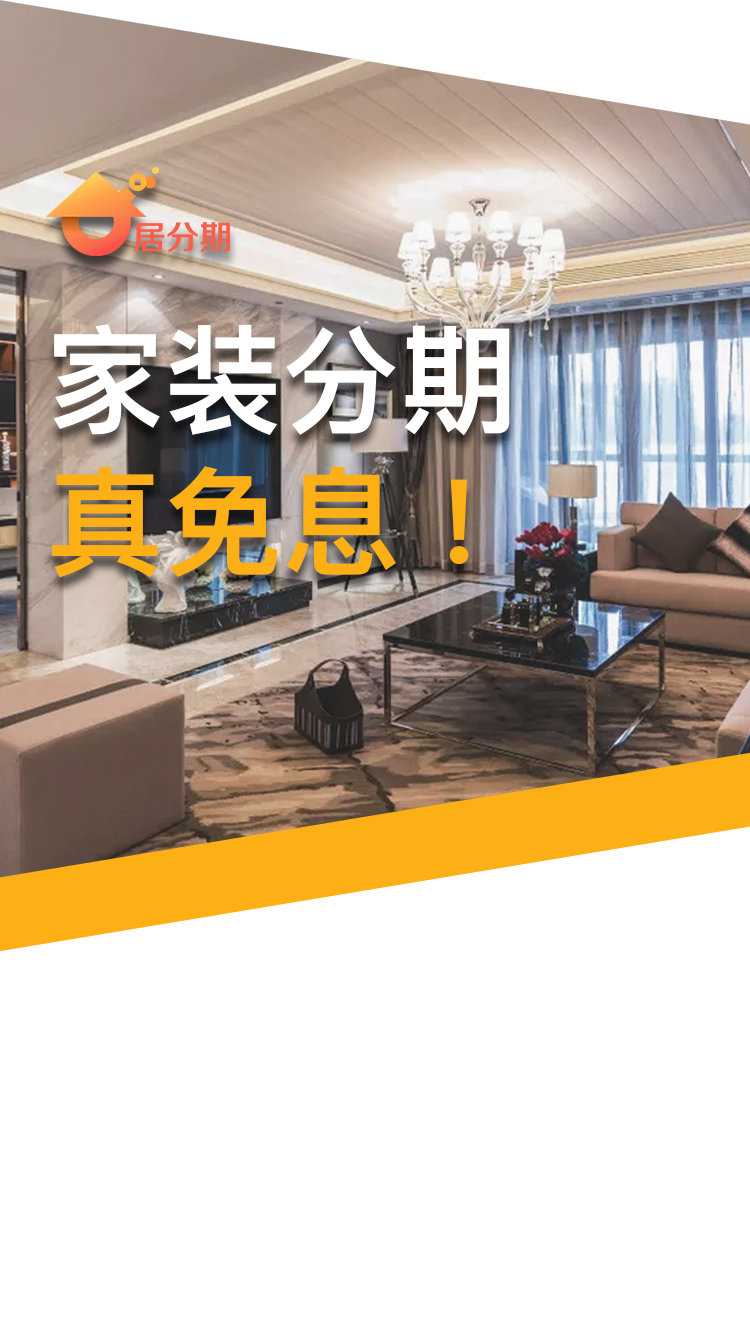
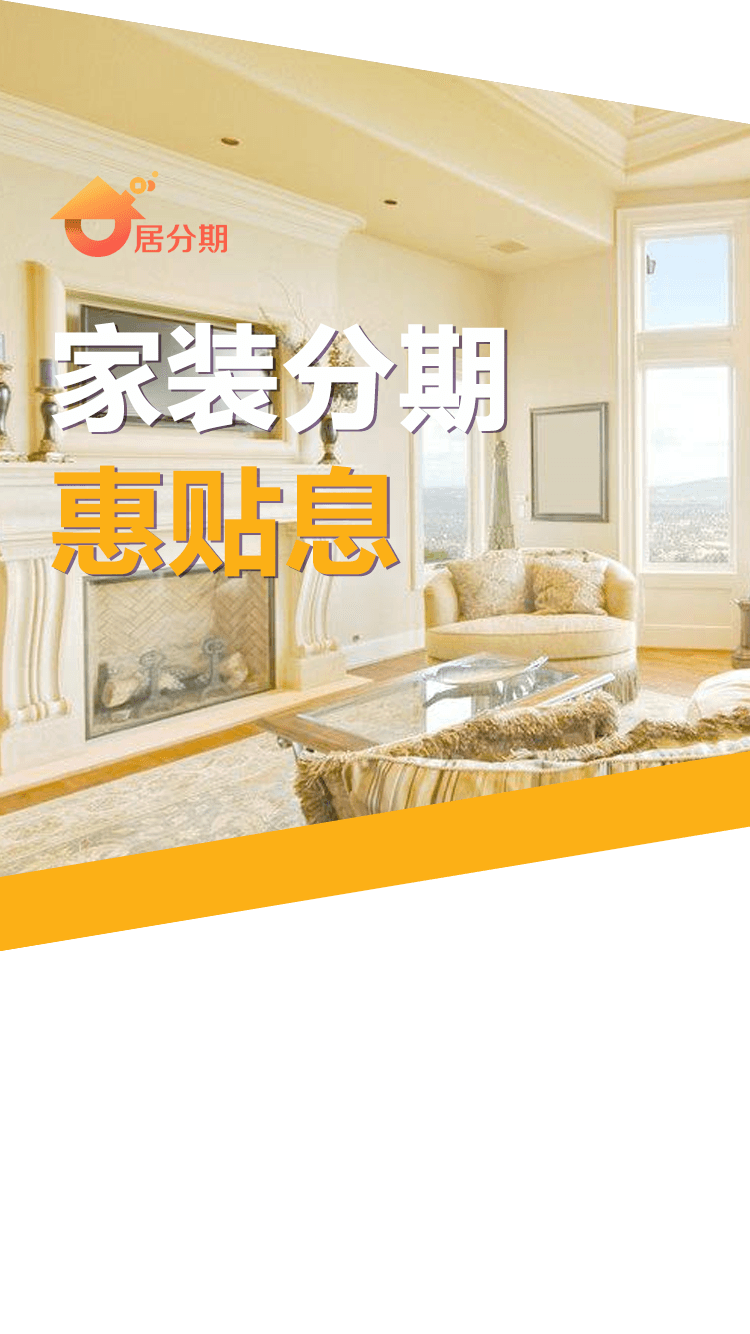
Pic change

diff --git a/src/module/index/app.vue b/src/module/index/app.vue
@@ -677,11 +677,19 @@ export default {
     axios.get(`${Lib.C.homeApi}operations?filter=operationName:banner`).then((res) => {
       res.data.data.map((e) => {
         if (e.linkUrl) {
-          this.newBannerList.push({
-            id: e.id,
-            url: e.linkUrl,
-            img: Lib.C.imgUrl + e.coverImg
-          })
+          if (e.title !== '') {
+            this.newBannerList.push({
+              id: e.id,
+              url: e.linkUrl,
+              img: Lib.C.imgUrl + e.coverImg
+            })
+          } else if (e.title == '') {
+            this.newBannerList.push({
+              id: e.id,
+              url: e.linkUrl,
+              img: Lib.C.imgUrl + 'banner-3.jpg'
+            })
+          }
         } else if (!e.linkUrl&&e.descriptionRich) {
           this.newBannerList.push({
             id: e.id,

diff --git a/src/module/instalment/app.vue b/src/module/instalment/app.vue
@@ -312,11 +312,11 @@
 
   <div class="ins-header-goapply" v-if="thisStatus == '未申请'">
     <p v-tap="goto('./ins-apply.html')">去申请</p>
-    <span>最高可贷款60万元，24期免息</span>
+    <span>最高可贷款60万元，享受12期贴息服务</span>
   </div>
   <div class="ins-header-applyfalse" v-if="thisStatus == '激活失败' || thisStatus == '申请失败'">
     <p v-tap="goto('./ins-apply.html')">重新申请</p>
-    <span>最高可贷款60万元，24期免息</span>
+    <span>最高可贷款60万元，享受12期贴息服务</span>
     <strong>—— 申请失败 ——</strong>
   </div>
 

diff --git a/src/module/wxAuth/app.vue b/src/module/wxAuth/app.vue
@@ -37,7 +37,6 @@ export default {
         throw err
       })
     } else {
-      alert('登录失败！')
       location.href = `https://open.weixin.qq.com/connect/oauth2/authorize?appid=${this.appId}&redirect_uri=${encodeURIComponent(location.href)}&response_type=code&scope=snsapi_userinfo&state=STATE#wechat_redirec`
     }
   }

diff --git a/src/components/j-tk-order-list-item.vue b/src/components/j-tk-order-list-item.vue
@@ -170,7 +170,7 @@
             width: 100%;
             height: 40px;
             line-height: 40px;
-            font-size: 15px;
+            font-size: 12px;
             font-weight: 300;
             .transacitonAmount {
               span {

diff --git a/src/module/wallet/app.vue b/src/module/wallet/app.vue
@@ -274,7 +274,7 @@ export default {
       this.balanceChanges = res.data.data.balanceChanges
     }).catch((res) => {
       alert("网络连接失败，请稍候重试")
-      window.location.reload()
+
     })
   },
   methods: {
